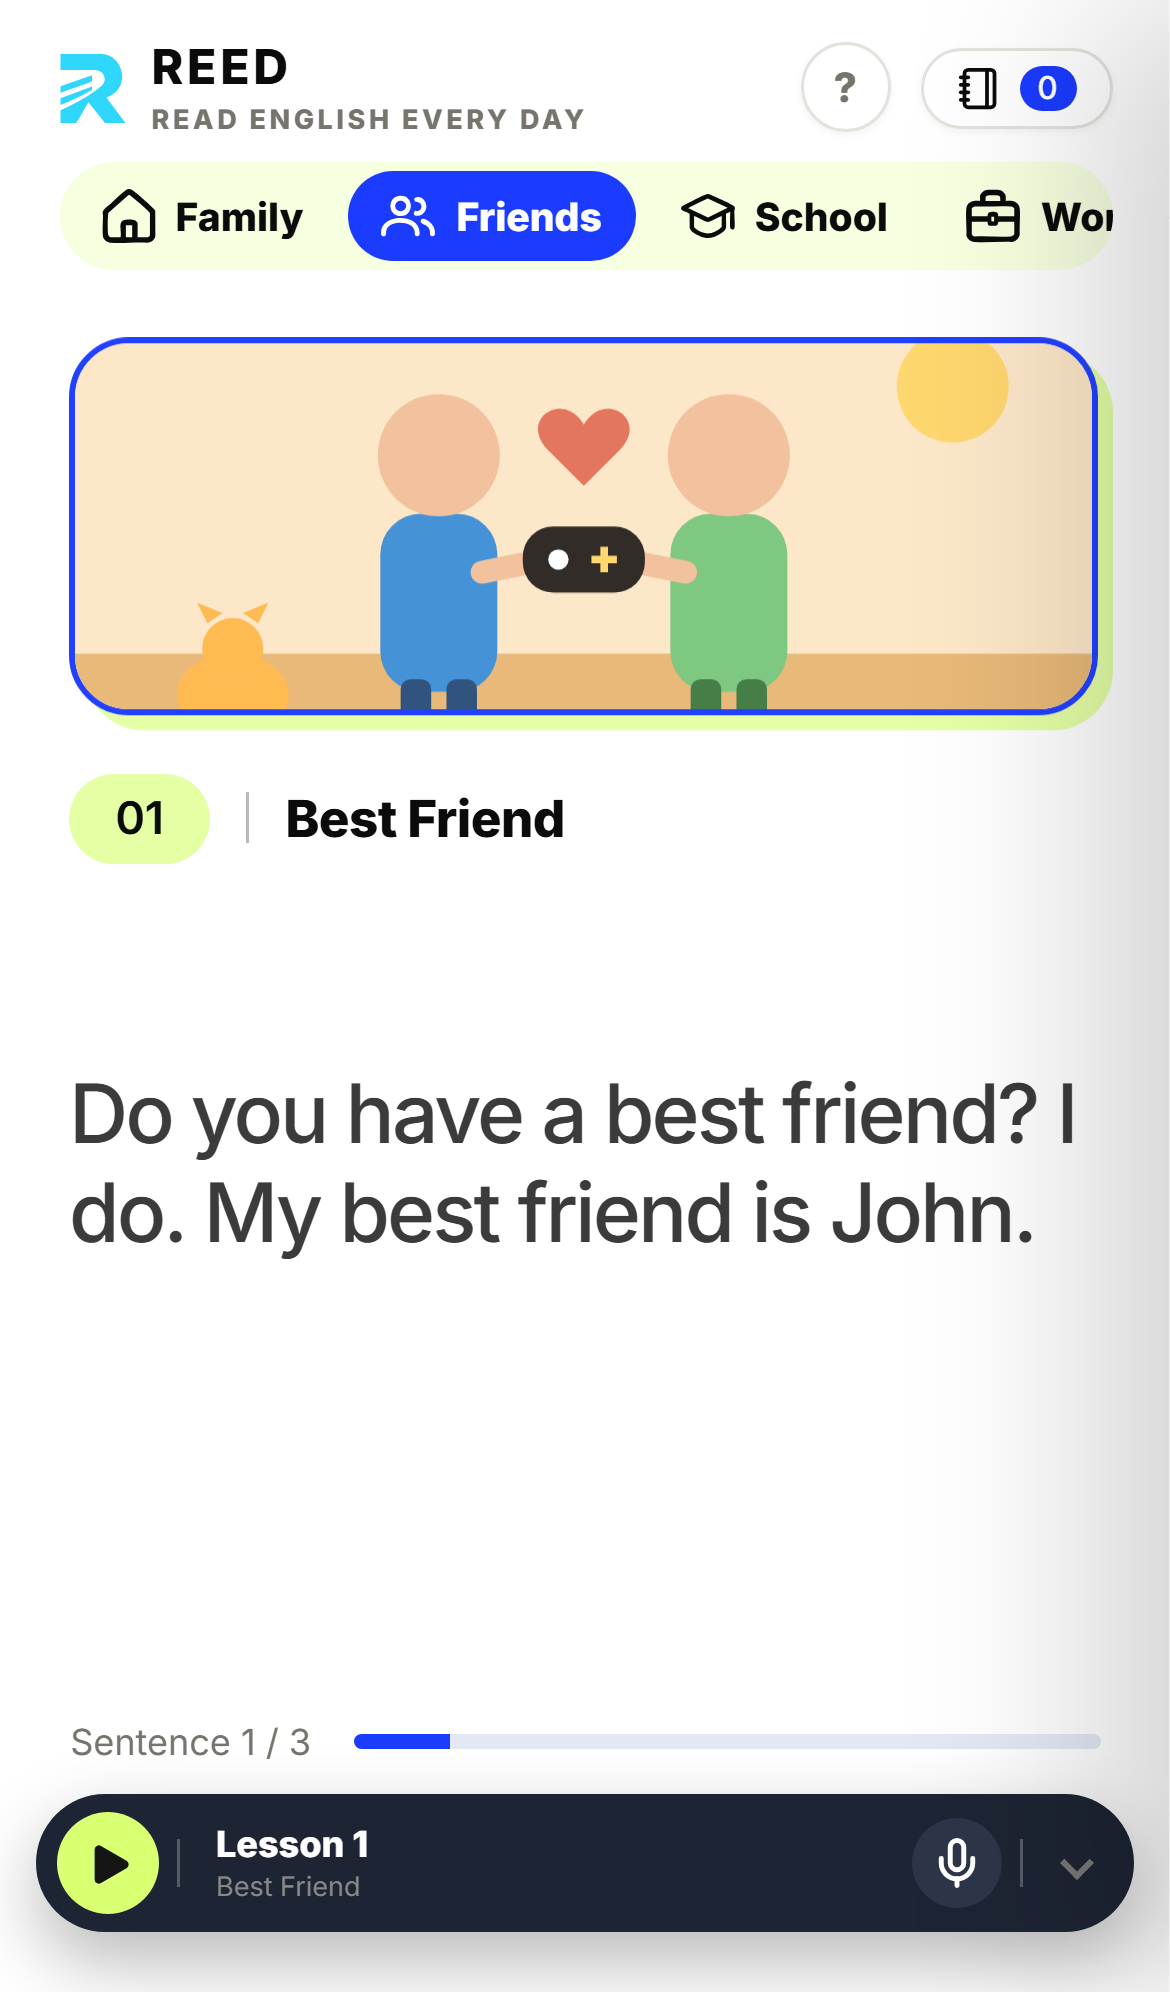
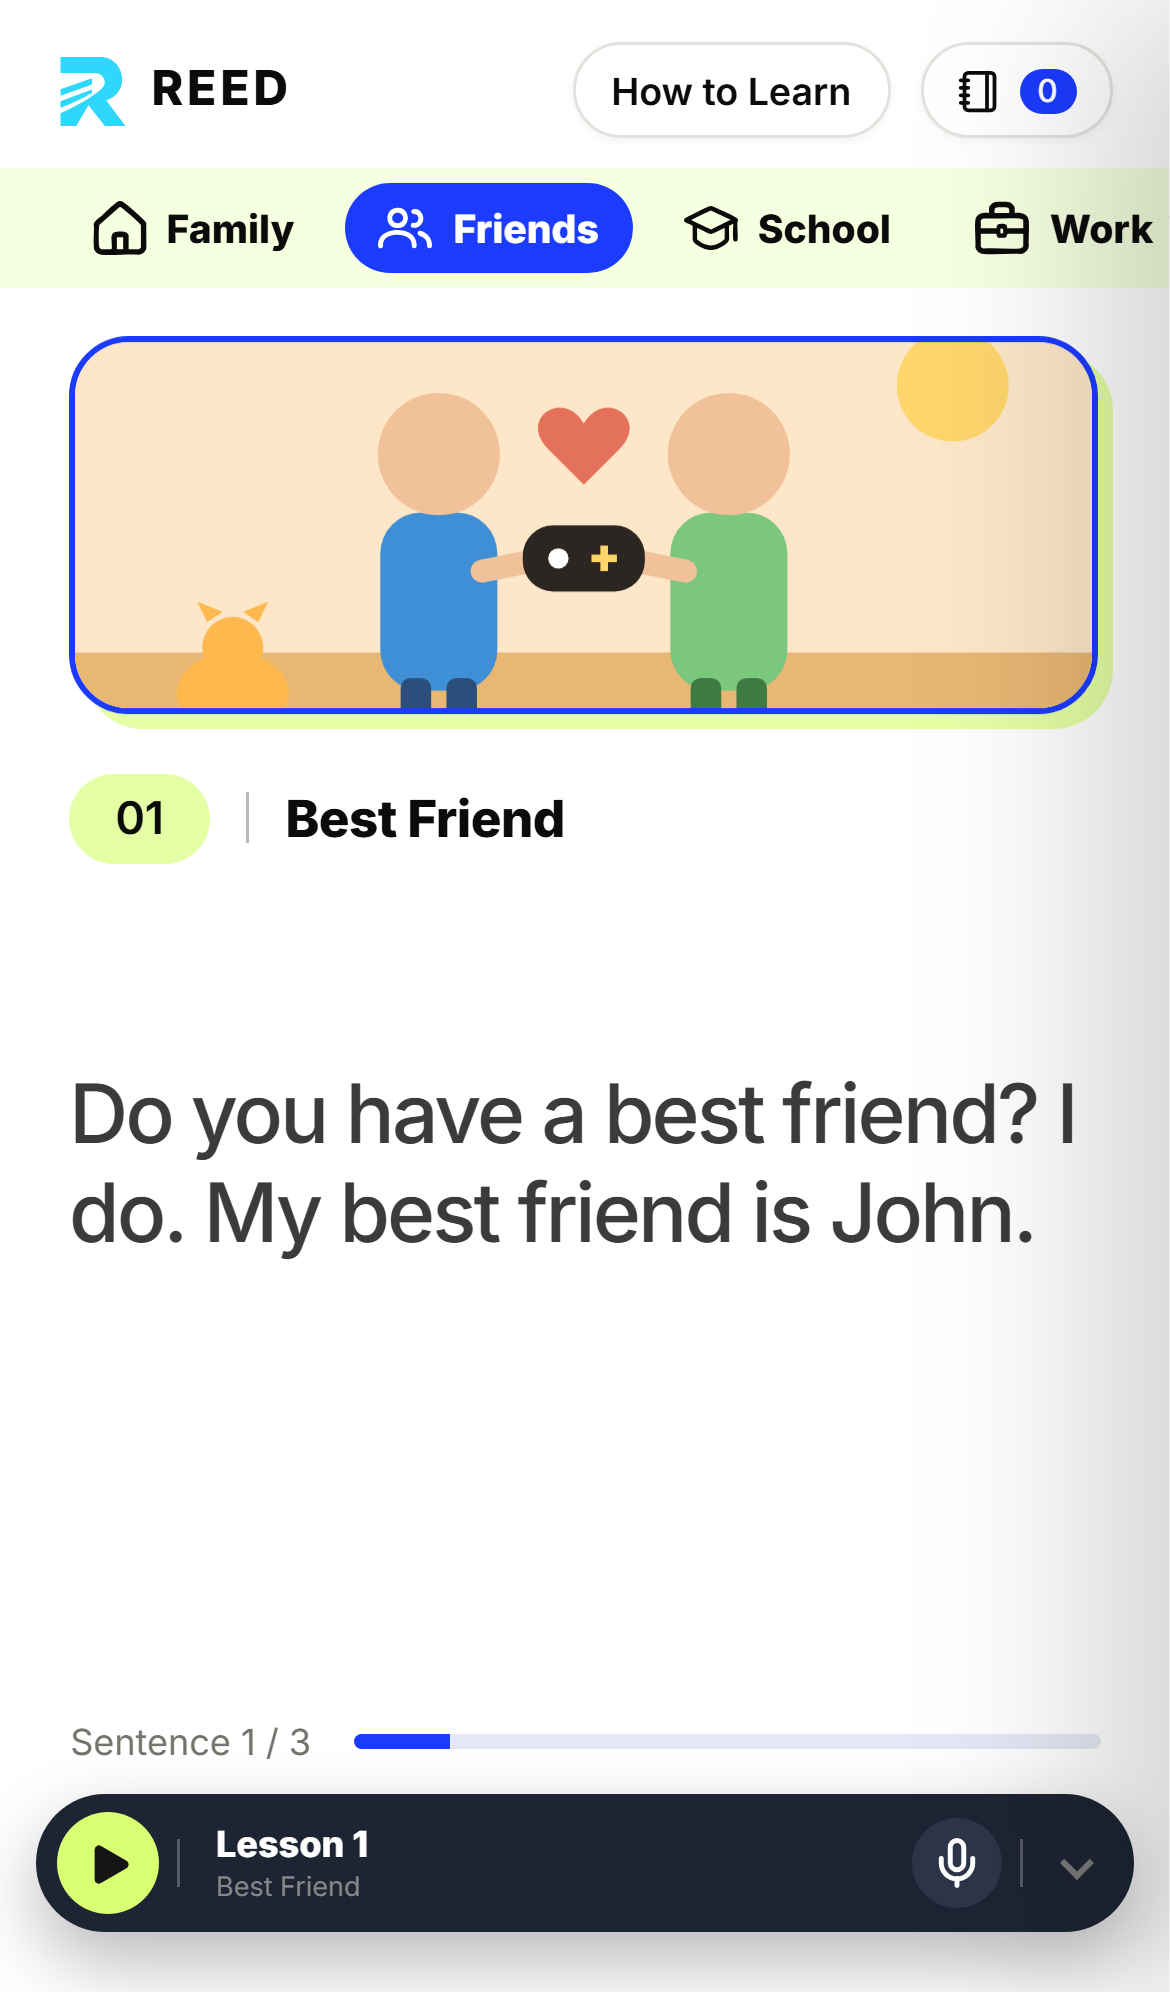
Rename "?" to "How to Learn"; balance the header
- the help button now reads "How to Learn"; tagline hidden under 430px so one row fits
- desktop header: fixed 80px height, brand / topic bar / buttons share one center line
- "How to Learn" and notebook buttons both 32px tall

Changed region(s): [[0.0, 0.0, 1.0, 0.1556]]

diff --git a/deploy/index.html b/deploy/index.html
@@ -28,7 +28,7 @@ body{margin:0;background:var(--bg);color:var(--ink);
 .top .brandtext b{font-size:16px;font-weight:800;letter-spacing:.08em;color:var(--ink)}
 .top .brandtext i{font-style:normal;font-size:9px;font-weight:700;letter-spacing:.13em;color:var(--muted);text-transform:uppercase;margin-top:3px}
 .top .right{display:flex;align-items:center;gap:10px;pointer-events:none}
-.nbBtn{pointer-events:auto;border:1px solid #e4e2dc;background:#fff;color:var(--ink);border-radius:999px;box-shadow:0 1px 3px rgba(0,0,0,.05);
+.nbBtn{height:32px;box-sizing:border-box;pointer-events:auto;border:1px solid #e4e2dc;background:#fff;color:var(--ink);border-radius:999px;box-shadow:0 1px 3px rgba(0,0,0,.05);
   padding:5px 11px;font:inherit;font-size:12.5px;font-weight:600;cursor:pointer;display:inline-flex;align-items:center;gap:6px}
 .nbBtn b{background:var(--accent);color:#fff;border-radius:999px;padding:1px 6px;font-size:10.5px;min-width:1.4em;text-align:center}
 .nbBackdrop{position:fixed;inset:0;background:rgba(30,20,10,.32);z-index:48;opacity:0;transition:opacity .35s}
@@ -84,8 +84,8 @@ body{margin:0;background:var(--bg);color:var(--ink);
 #rotWord.out{opacity:0;transform:translateY(.25em)}
 .top .topics{pointer-events:auto;margin-left:32px;flex:0 1 auto}
 .top .right{margin-left:auto}
-@media (min-width:821px){ .top{padding-top:28px} }
-@media (min-width:1320px){ .top{min-height:88px} .top .topics{position:absolute;left:50%;top:22px;transform:translateX(-50%);margin:0} }
+@media (min-width:821px){ .top{height:80px;padding-top:0;padding-bottom:0;align-items:center} }
+@media (min-width:1320px){ .top .topics{position:absolute;left:50%;top:50%;transform:translate(-50%,-50%);margin:0} }
 @media (min-width:821px) and (max-width:1180px){ .top .topics{margin-left:16px;margin-right:12px} .top .topics button{padding:8px 10px} }
 .topics{display:flex;gap:4px;padding:4px;background:color-mix(in srgb,var(--leaf) 35%,transparent);border-radius:999px;width:max-content;max-width:100%;min-width:0;
   overflow-x:auto;scrollbar-width:none;touch-action:pan-x;-webkit-overflow-scrolling:touch}
@@ -105,7 +105,7 @@ body{margin:0;background:var(--bg);color:var(--ink);
 @keyframes rise{from{opacity:0;transform:translateY(14px)}to{opacity:1;transform:none}}
 #main.entering .label,#main.entering .sents{animation:rise .55s cubic-bezier(.2,.8,.2,1) both}
 #main.entering .art{animation:rise .65s .08s cubic-bezier(.2,.8,.2,1) both}
-.tipBtn{width:30px;height:30px;padding:0;justify-content:center;font-weight:700;font-size:13.5px;margin-right:0;color:var(--muted)}
+.tipBtn{height:32px;width:auto;padding:0 12px;justify-content:center;font-weight:600;font-size:12.5px;margin-right:0;color:var(--ink);white-space:nowrap}
 .tip{position:fixed;z-index:65;left:0;top:0;max-width:min(280px,calc(100vw - 24px));padding:11px 14px;border-radius:14px;background:var(--bar);color:#fff;
   font-size:13.5px;font-weight:600;line-height:1.4;letter-spacing:0;box-shadow:0 10px 28px rgba(0,0,0,.28);cursor:pointer;
   opacity:0;transform:translateY(6px);pointer-events:none;transition:opacity .25s ease,transform .25s ease;display:flex;gap:10px;align-items:center}
@@ -426,6 +426,8 @@ body{-webkit-user-select:none;user-select:none;-webkit-touch-callout:none;-webki
   .number-spacer{width:calc(50% - 15px);min-width:calc(50% - 15px)}
 }
 
+@media (max-width:430px){ .top .brandtext i{display:none} }
+@media (max-width:360px){ .top .right{gap:6px} .tipBtn{padding:0 9px} .nbBtn{padding:5px 9px} }
 @media (max-width:820px){
   .top{flex-wrap:wrap;row-gap:10px;padding:14px 5vw 6px}
   .top .topics{order:3;width:calc(100% + 10vw);max-width:none;margin:0 -5vw;padding:5px 5vw;border-radius:0;gap:6px;
@@ -523,7 +525,7 @@ body{-webkit-user-select:none;user-select:none;-webkit-touch-callout:none;-webki
   </svg>
 </div>
 <div id="pickBubble"><b>01</b></div>
-<div class="top"><span class="brand"><img src="reed-icon.svg" alt="" width="22" height="23"><span class="brandtext"><b>REED</b><i>Read English Every Day</i></span></span><nav class="topics" id="topics" aria-label="Topics"></nav><span class="right"><button id="tipBtn" class="nbBtn tipBtn" aria-label="Xem lại hướng dẫn" title="Hướng dẫn">?</button><button id="nbBtn" class="nbBtn" aria-label="Vocabulary notebook"><svg viewBox="0 0 24 24" width="15" height="15" fill="none" stroke="currentColor" stroke-width="2" stroke-linecap="round" stroke-linejoin="round"><path d="M2 6h4"/><path d="M2 10h4"/><path d="M2 14h4"/><path d="M2 18h4"/><rect width="16" height="20" x="4" y="2" rx="2"/><path d="M16 2v20"/></svg> <b id="nbCount">0</b></button></span></div>
+<div class="top"><span class="brand"><img src="reed-icon.svg" alt="" width="22" height="23"><span class="brandtext"><b>REED</b><i>Read English Every Day</i></span></span><nav class="topics" id="topics" aria-label="Topics"></nav><span class="right"><button id="tipBtn" class="nbBtn tipBtn" aria-label="How to Learn: xem lại hướng dẫn" title="How to Learn">How to Learn</button><button id="nbBtn" class="nbBtn" aria-label="Vocabulary notebook"><svg viewBox="0 0 24 24" width="15" height="15" fill="none" stroke="currentColor" stroke-width="2" stroke-linecap="round" stroke-linejoin="round"><path d="M2 6h4"/><path d="M2 10h4"/><path d="M2 14h4"/><path d="M2 18h4"/><rect width="16" height="20" x="4" y="2" rx="2"/><path d="M16 2v20"/></svg> <b id="nbCount">0</b></button></span></div>
 
 <div id="nbBackdrop" class="nbBackdrop" hidden></div>
 <aside id="notebook" class="nb" hidden>
@@ -1773,7 +1775,7 @@ const Tour=(function(){
           nbOpen();
         },
         leave:()=>{ nbClose(); if(demoAdded){ nbTogglePair(demoAdded); demoAdded=null; } }},
-      {t:(coarse?"Giữ ngón tay":"Nhấn giữ")+" vào tên bài, rồi trượt sang trái / phải để chọn bài khác. Cần xem lại hướng dẫn? Bấm nút “?” trên cùng.", last:true, wait:520, r:30,
+      {t:(coarse?"Giữ ngón tay":"Nhấn giữ")+" vào tên bài, rồi trượt sang trái / phải để chọn bài khác. Cần xem lại hướng dẫn? Bấm nút “How to Learn” trên cùng.", last:true, wait:520, r:30,
         rect:()=>union($("#player").getBoundingClientRect(), $("#pickBubble").getBoundingClientRect()),
         el:()=>$("#player"),
         enter:()=>{ openPicker(); }, leave:()=>{ closePicker(); }}

diff --git a/index.html b/index.html
@@ -28,7 +28,7 @@ body{margin:0;background:var(--bg);color:var(--ink);
 .top .brandtext b{font-size:16px;font-weight:800;letter-spacing:.08em;color:var(--ink)}
 .top .brandtext i{font-style:normal;font-size:9px;font-weight:700;letter-spacing:.13em;color:var(--muted);text-transform:uppercase;margin-top:3px}
 .top .right{display:flex;align-items:center;gap:10px;pointer-events:none}
-.nbBtn{pointer-events:auto;border:1px solid #e4e2dc;background:#fff;color:var(--ink);border-radius:999px;box-shadow:0 1px 3px rgba(0,0,0,.05);
+.nbBtn{height:32px;box-sizing:border-box;pointer-events:auto;border:1px solid #e4e2dc;background:#fff;color:var(--ink);border-radius:999px;box-shadow:0 1px 3px rgba(0,0,0,.05);
   padding:5px 11px;font:inherit;font-size:12.5px;font-weight:600;cursor:pointer;display:inline-flex;align-items:center;gap:6px}
 .nbBtn b{background:var(--accent);color:#fff;border-radius:999px;padding:1px 6px;font-size:10.5px;min-width:1.4em;text-align:center}
 .nbBackdrop{position:fixed;inset:0;background:rgba(30,20,10,.32);z-index:48;opacity:0;transition:opacity .35s}
@@ -84,8 +84,8 @@ body{margin:0;background:var(--bg);color:var(--ink);
 #rotWord.out{opacity:0;transform:translateY(.25em)}
 .top .topics{pointer-events:auto;margin-left:32px;flex:0 1 auto}
 .top .right{margin-left:auto}
-@media (min-width:821px){ .top{padding-top:28px} }
-@media (min-width:1320px){ .top{min-height:88px} .top .topics{position:absolute;left:50%;top:22px;transform:translateX(-50%);margin:0} }
+@media (min-width:821px){ .top{height:80px;padding-top:0;padding-bottom:0;align-items:center} }
+@media (min-width:1320px){ .top .topics{position:absolute;left:50%;top:50%;transform:translate(-50%,-50%);margin:0} }
 @media (min-width:821px) and (max-width:1180px){ .top .topics{margin-left:16px;margin-right:12px} .top .topics button{padding:8px 10px} }
 .topics{display:flex;gap:4px;padding:4px;background:color-mix(in srgb,var(--leaf) 35%,transparent);border-radius:999px;width:max-content;max-width:100%;min-width:0;
   overflow-x:auto;scrollbar-width:none;touch-action:pan-x;-webkit-overflow-scrolling:touch}
@@ -105,7 +105,7 @@ body{margin:0;background:var(--bg);color:var(--ink);
 @keyframes rise{from{opacity:0;transform:translateY(14px)}to{opacity:1;transform:none}}
 #main.entering .label,#main.entering .sents{animation:rise .55s cubic-bezier(.2,.8,.2,1) both}
 #main.entering .art{animation:rise .65s .08s cubic-bezier(.2,.8,.2,1) both}
-.tipBtn{width:30px;height:30px;padding:0;justify-content:center;font-weight:700;font-size:13.5px;margin-right:0;color:var(--muted)}
+.tipBtn{height:32px;width:auto;padding:0 12px;justify-content:center;font-weight:600;font-size:12.5px;margin-right:0;color:var(--ink);white-space:nowrap}
 .tip{position:fixed;z-index:65;left:0;top:0;max-width:min(280px,calc(100vw - 24px));padding:11px 14px;border-radius:14px;background:var(--bar);color:#fff;
   font-size:13.5px;font-weight:600;line-height:1.4;letter-spacing:0;box-shadow:0 10px 28px rgba(0,0,0,.28);cursor:pointer;
   opacity:0;transform:translateY(6px);pointer-events:none;transition:opacity .25s ease,transform .25s ease;display:flex;gap:10px;align-items:center}
@@ -426,6 +426,8 @@ body{-webkit-user-select:none;user-select:none;-webkit-touch-callout:none;-webki
   .number-spacer{width:calc(50% - 15px);min-width:calc(50% - 15px)}
 }
 
+@media (max-width:430px){ .top .brandtext i{display:none} }
+@media (max-width:360px){ .top .right{gap:6px} .tipBtn{padding:0 9px} .nbBtn{padding:5px 9px} }
 @media (max-width:820px){
   .top{flex-wrap:wrap;row-gap:10px;padding:14px 5vw 6px}
   .top .topics{order:3;width:calc(100% + 10vw);max-width:none;margin:0 -5vw;padding:5px 5vw;border-radius:0;gap:6px;
@@ -523,7 +525,7 @@ body{-webkit-user-select:none;user-select:none;-webkit-touch-callout:none;-webki
   </svg>
 </div>
 <div id="pickBubble"><b>01</b></div>
-<div class="top"><span class="brand"><img src="reed-icon.svg" alt="" width="22" height="23"><span class="brandtext"><b>REED</b><i>Read English Every Day</i></span></span><nav class="topics" id="topics" aria-label="Topics"></nav><span class="right"><button id="tipBtn" class="nbBtn tipBtn" aria-label="Xem lại hướng dẫn" title="Hướng dẫn">?</button><button id="nbBtn" class="nbBtn" aria-label="Vocabulary notebook"><svg viewBox="0 0 24 24" width="15" height="15" fill="none" stroke="currentColor" stroke-width="2" stroke-linecap="round" stroke-linejoin="round"><path d="M2 6h4"/><path d="M2 10h4"/><path d="M2 14h4"/><path d="M2 18h4"/><rect width="16" height="20" x="4" y="2" rx="2"/><path d="M16 2v20"/></svg> <b id="nbCount">0</b></button></span></div>
+<div class="top"><span class="brand"><img src="reed-icon.svg" alt="" width="22" height="23"><span class="brandtext"><b>REED</b><i>Read English Every Day</i></span></span><nav class="topics" id="topics" aria-label="Topics"></nav><span class="right"><button id="tipBtn" class="nbBtn tipBtn" aria-label="How to Learn: xem lại hướng dẫn" title="How to Learn">How to Learn</button><button id="nbBtn" class="nbBtn" aria-label="Vocabulary notebook"><svg viewBox="0 0 24 24" width="15" height="15" fill="none" stroke="currentColor" stroke-width="2" stroke-linecap="round" stroke-linejoin="round"><path d="M2 6h4"/><path d="M2 10h4"/><path d="M2 14h4"/><path d="M2 18h4"/><rect width="16" height="20" x="4" y="2" rx="2"/><path d="M16 2v20"/></svg> <b id="nbCount">0</b></button></span></div>
 
 <div id="nbBackdrop" class="nbBackdrop" hidden></div>
 <aside id="notebook" class="nb" hidden>
@@ -1773,7 +1775,7 @@ const Tour=(function(){
           nbOpen();
         },
         leave:()=>{ nbClose(); if(demoAdded){ nbTogglePair(demoAdded); demoAdded=null; } }},
-      {t:(coarse?"Giữ ngón tay":"Nhấn giữ")+" vào tên bài, rồi trượt sang trái / phải để chọn bài khác. Cần xem lại hướng dẫn? Bấm nút “?” trên cùng.", last:true, wait:520, r:30,
+      {t:(coarse?"Giữ ngón tay":"Nhấn giữ")+" vào tên bài, rồi trượt sang trái / phải để chọn bài khác. Cần xem lại hướng dẫn? Bấm nút “How to Learn” trên cùng.", last:true, wait:520, r:30,
         rect:()=>union($("#player").getBoundingClientRect(), $("#pickBubble").getBoundingClientRect()),
         el:()=>$("#player"),
         enter:()=>{ openPicker(); }, leave:()=>{ closePicker(); }}
